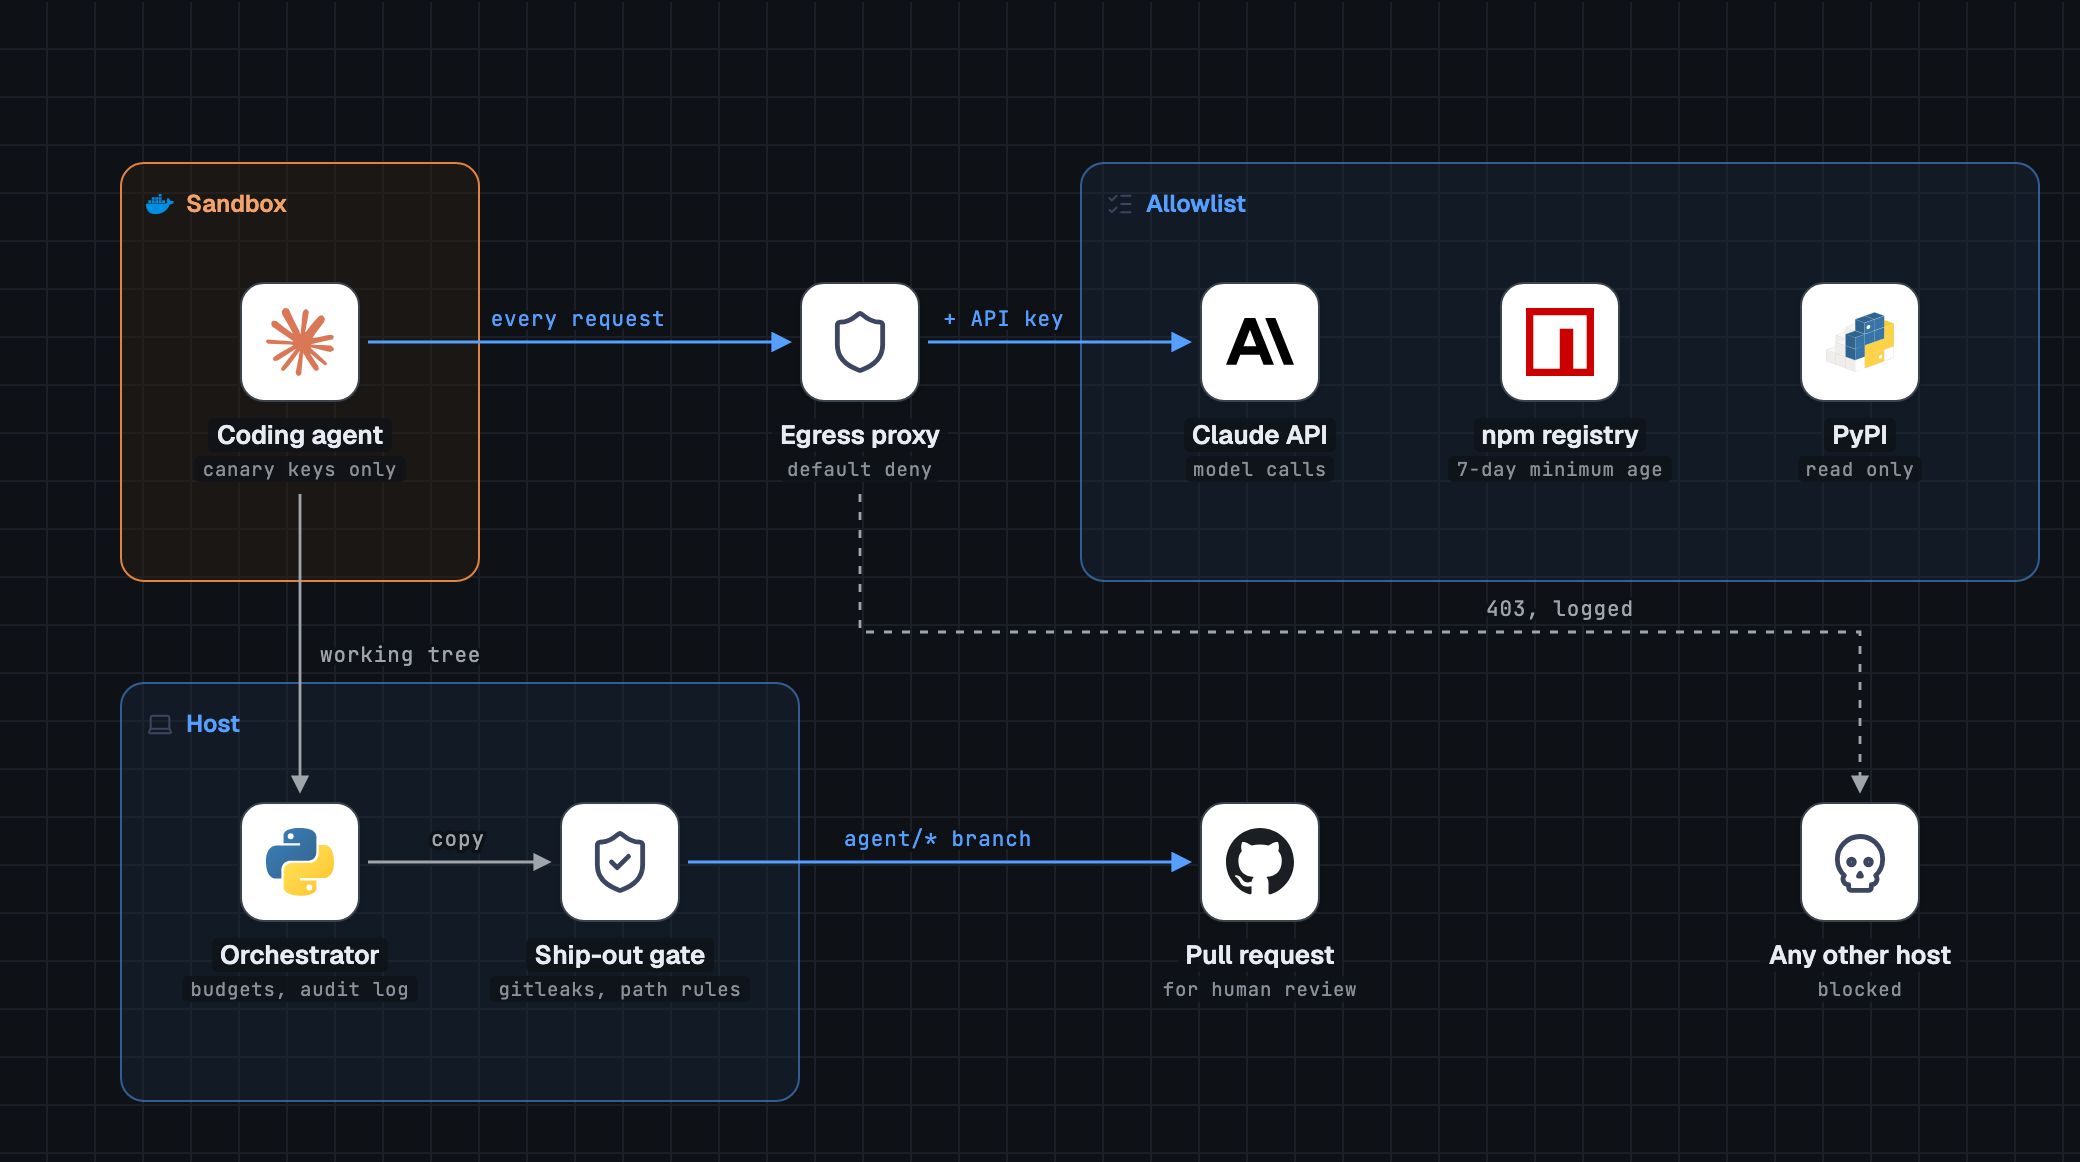
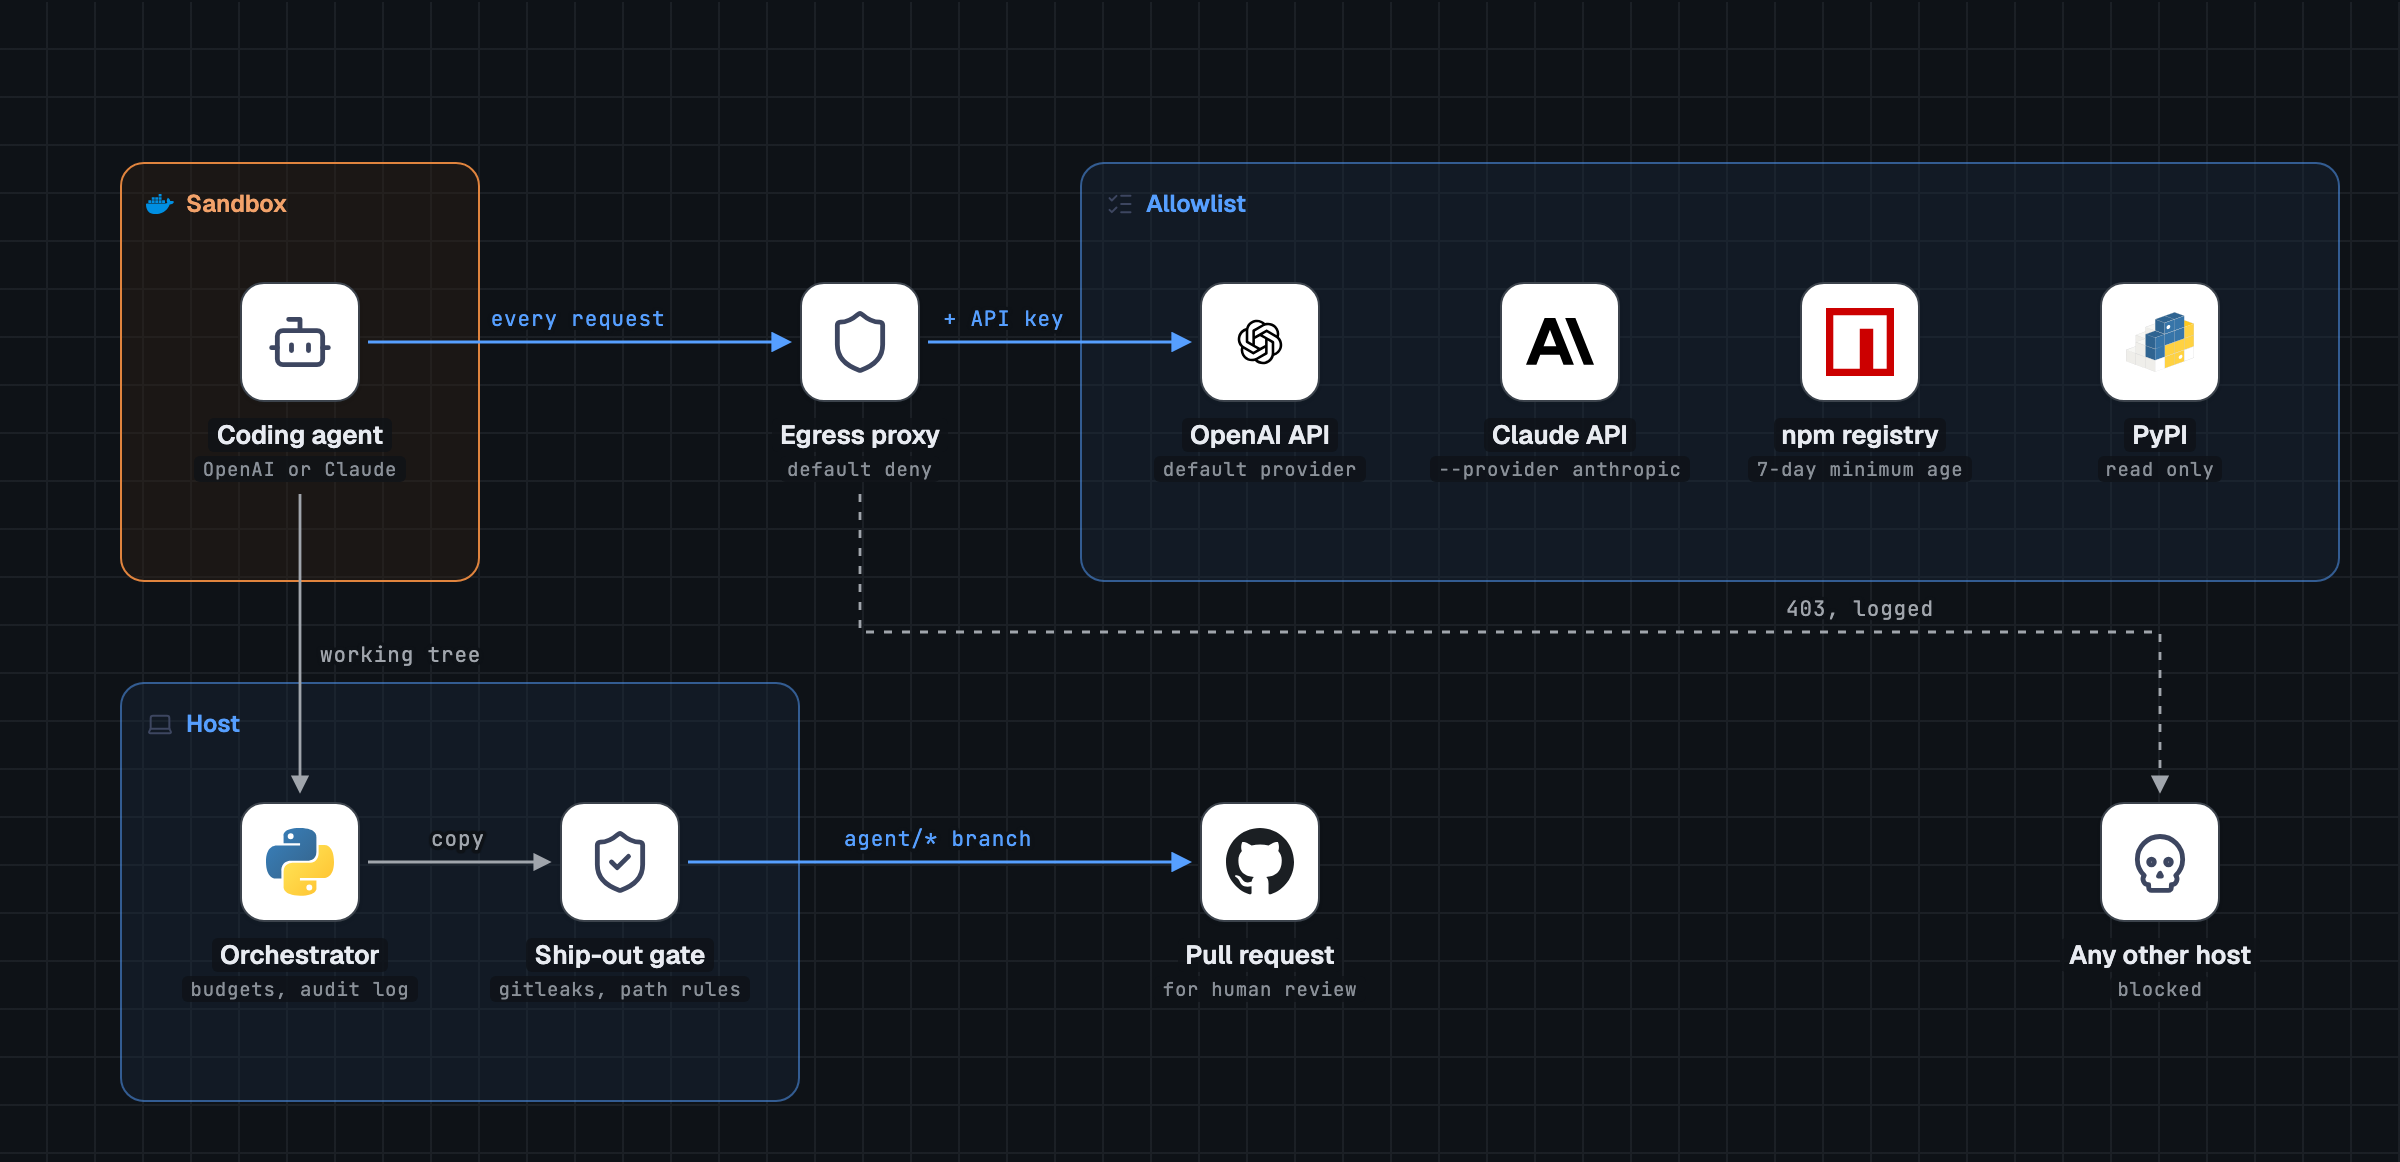
Show both model providers in the architecture diagram
The agent node now uses a neutral icon, and the allowlist shows the
OpenAI and Claude APIs side by side.

diff --git a/README.md b/README.md
@@ -6,7 +6,7 @@ A secure harness for autonomous coding agents. The agent gets a shell and a repo
 
 <picture>
   <source media="(prefers-color-scheme: dark)" srcset="docs/architecture-dark.png">
-  <img alt="The coding agent runs in a Docker sandbox. Every request goes through an egress proxy that allows only the Claude API, npm and PyPI and adds the API key itself. Other hosts get a 403. The orchestrator copies the agent's working tree to a ship-out gate, which opens a pull request on an agent/* branch." src="docs/architecture.png">
+  <img alt="The coding agent runs in a Docker sandbox. Every request goes through an egress proxy that allows only the model API in use (OpenAI or Claude), npm and PyPI, and adds the API key itself. Other hosts get a 403. The orchestrator copies the agent's working tree to a ship-out gate, which opens a pull request on an agent/* branch." src="docs/architecture.png">
 </picture>
 
 ## Why
